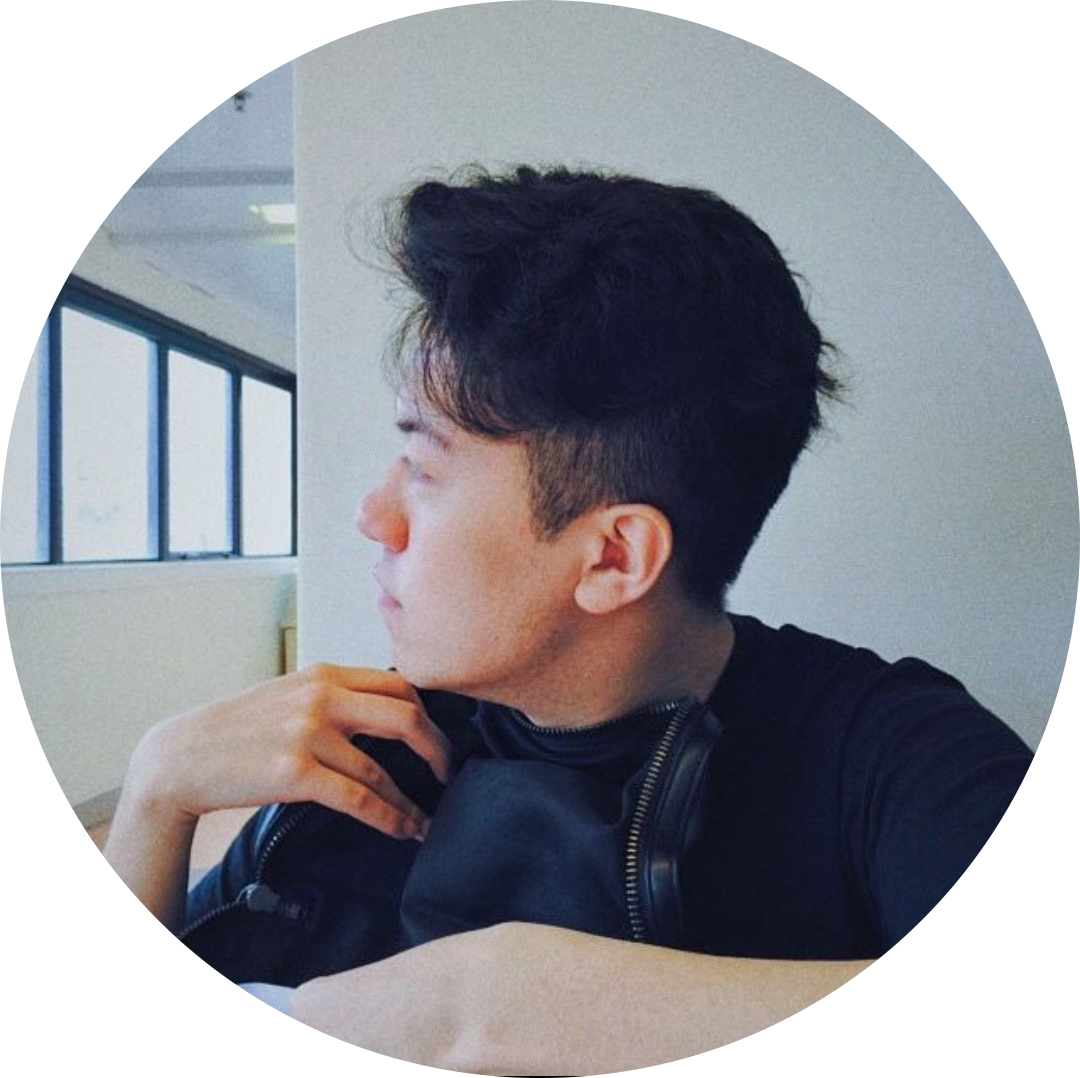
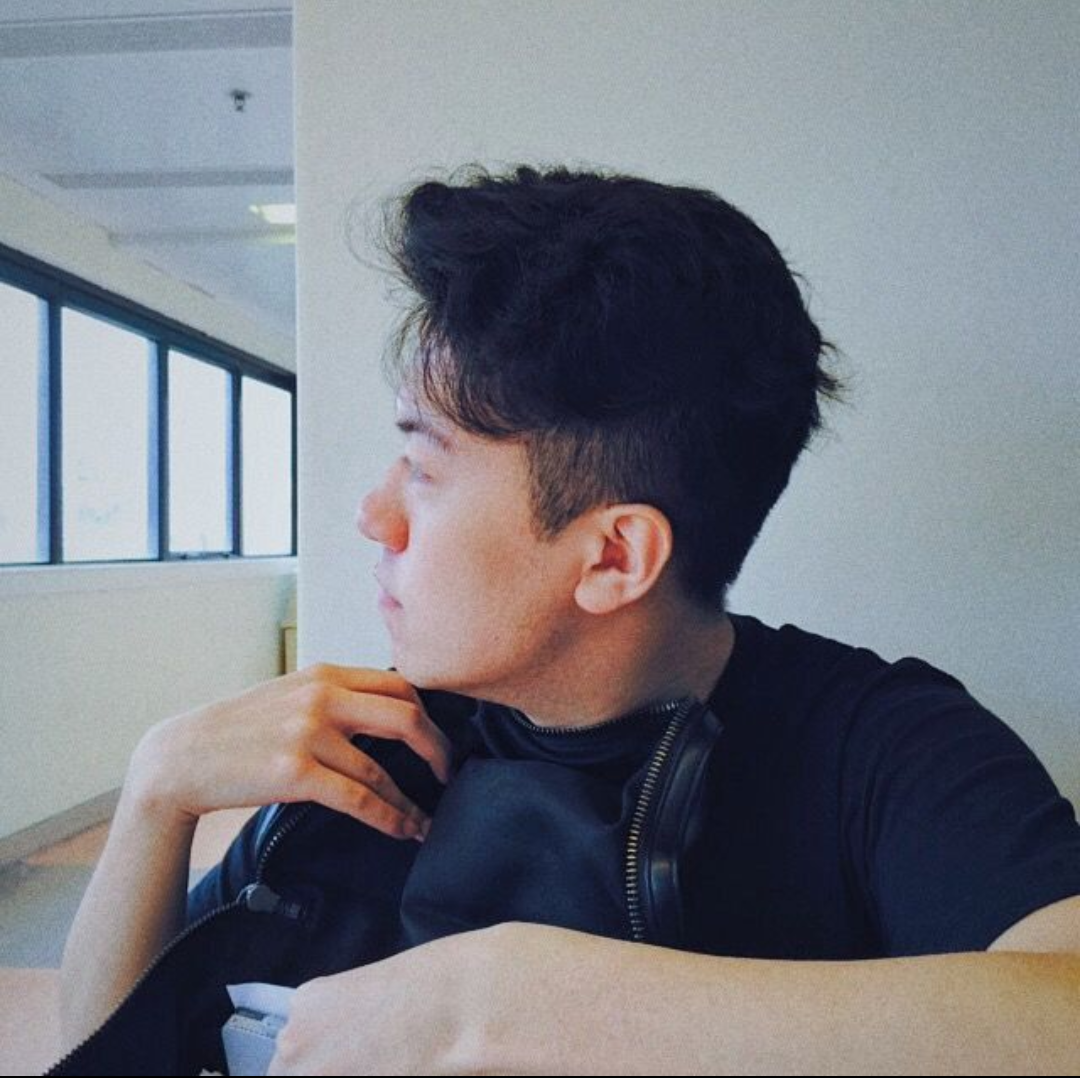
updated nav bar

diff --git a/index_new.html b/index_new.html
@@ -4,12 +4,30 @@
 <meta charset="UTF-8">
 <meta name="viewport" content="width=device-width, initial-scale=1">
 <link rel="stylesheet" href="w3.css">
+<link rel="stylesheet" type="text/css" href="style.css"/>
 <link rel='stylesheet' href='https://fonts.googleapis.com/css?family=Roboto'>
 <link rel="stylesheet" href="https://cdnjs.cloudflare.com/ajax/libs/font-awesome/4.7.0/css/font-awesome.min.css">
+<link rel="stylesheet" href="https://fonts.googleapis.com/css?family=Yellowtail" >
 <style>
 html,body,h1,h2,h3,h4,h5,h6 {font-family: "Roboto", sans-serif}
 </style>
 <body class="w3-light-grey">
+
+    <ul class="nav">
+        <div class="logo">
+            <a href ="index.html">
+            <img lazyload="true" class="image lazy-loaded" alt="Shanglin Guo" width="30" height="30" src="profile_round.png">
+            </a>
+            <a href="index.html" style="padding-left: 15px;">
+            Shanglin Guo
+            </a>
+        </div>
+        <li><a href = "https://docs.google.com/presentation/d/1AabR83EHIr7bm7biFay3SRzSeG6Yzwewwnce8knA_34/edit?usp=sharing">Links</a></li>
+        <li><a href = "../prj/index.html">Projects</a></li>
+        <li><a href = "Shanglin_Guo_resume_safe.pdf">Resume</a></li>
+        <li><a href="mailto:hi@guosl.com" target="_top">hi@guosl.com</a></li>
+        <li><a href="tel:+85265611861">+(852) 6561 1861</a></li>
+    </ul>
 
 <!-- Page Container -->
 <div class="w3-content w3-margin-top" style="max-width:1400px;">
@@ -22,7 +40,7 @@ html,body,h1,h2,h3,h4,h5,h6 {font-family: "Roboto", sans-serif}
     
       <div class="w3-white w3-text-grey w3-card-4">
         <div class="w3-display-container">
-          <img src="/profile.png" style="width:50%" alt="Avatar">
+          <img src="profile.png" style="width:100%" alt="Avatar">
           <div class="w3-display-bottomleft w3-container w3-text-black">
             <h2>Jane Doe</h2>
           </div>

diff --git a/style.css b/style.css
@@ -7,7 +7,7 @@ body {
         background: #ffffff;
 }
 .nav {
-	background-color: #595959;
+	background-color: #009688;
 	color: #ffffff;
 	list-style: none;
 	text-align: right;
